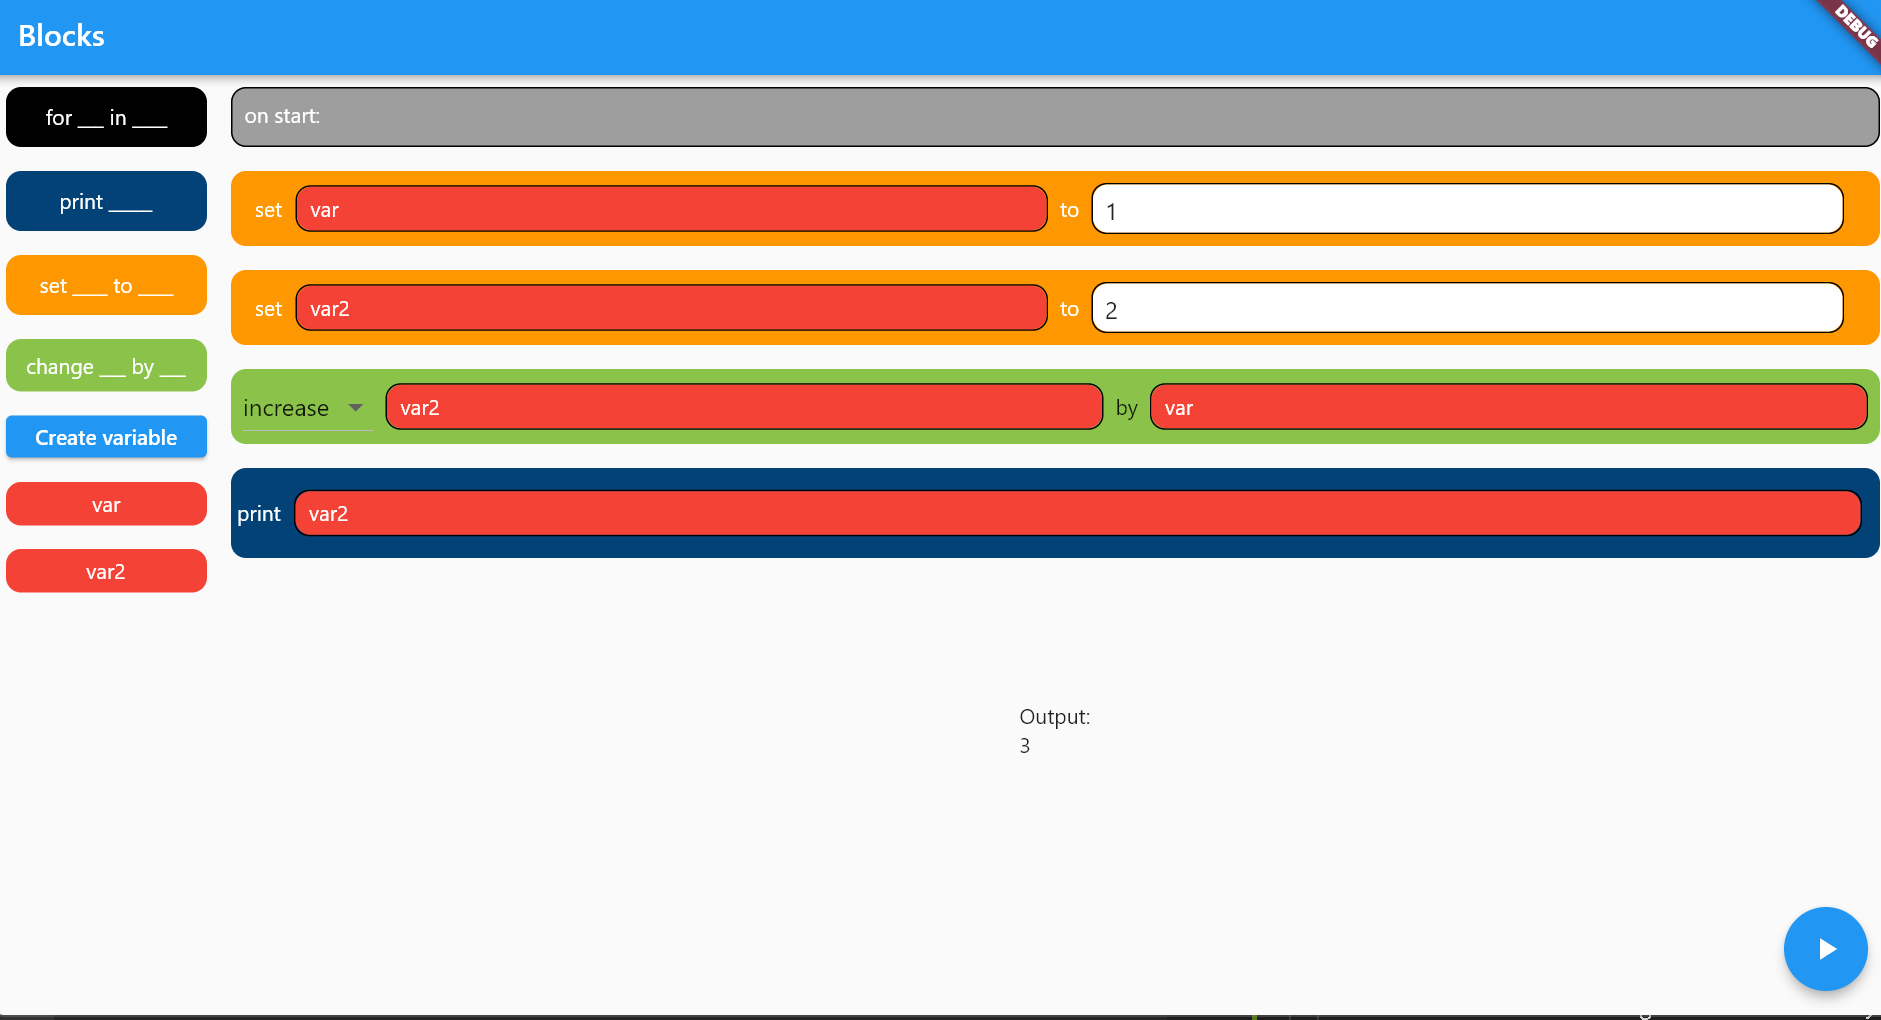
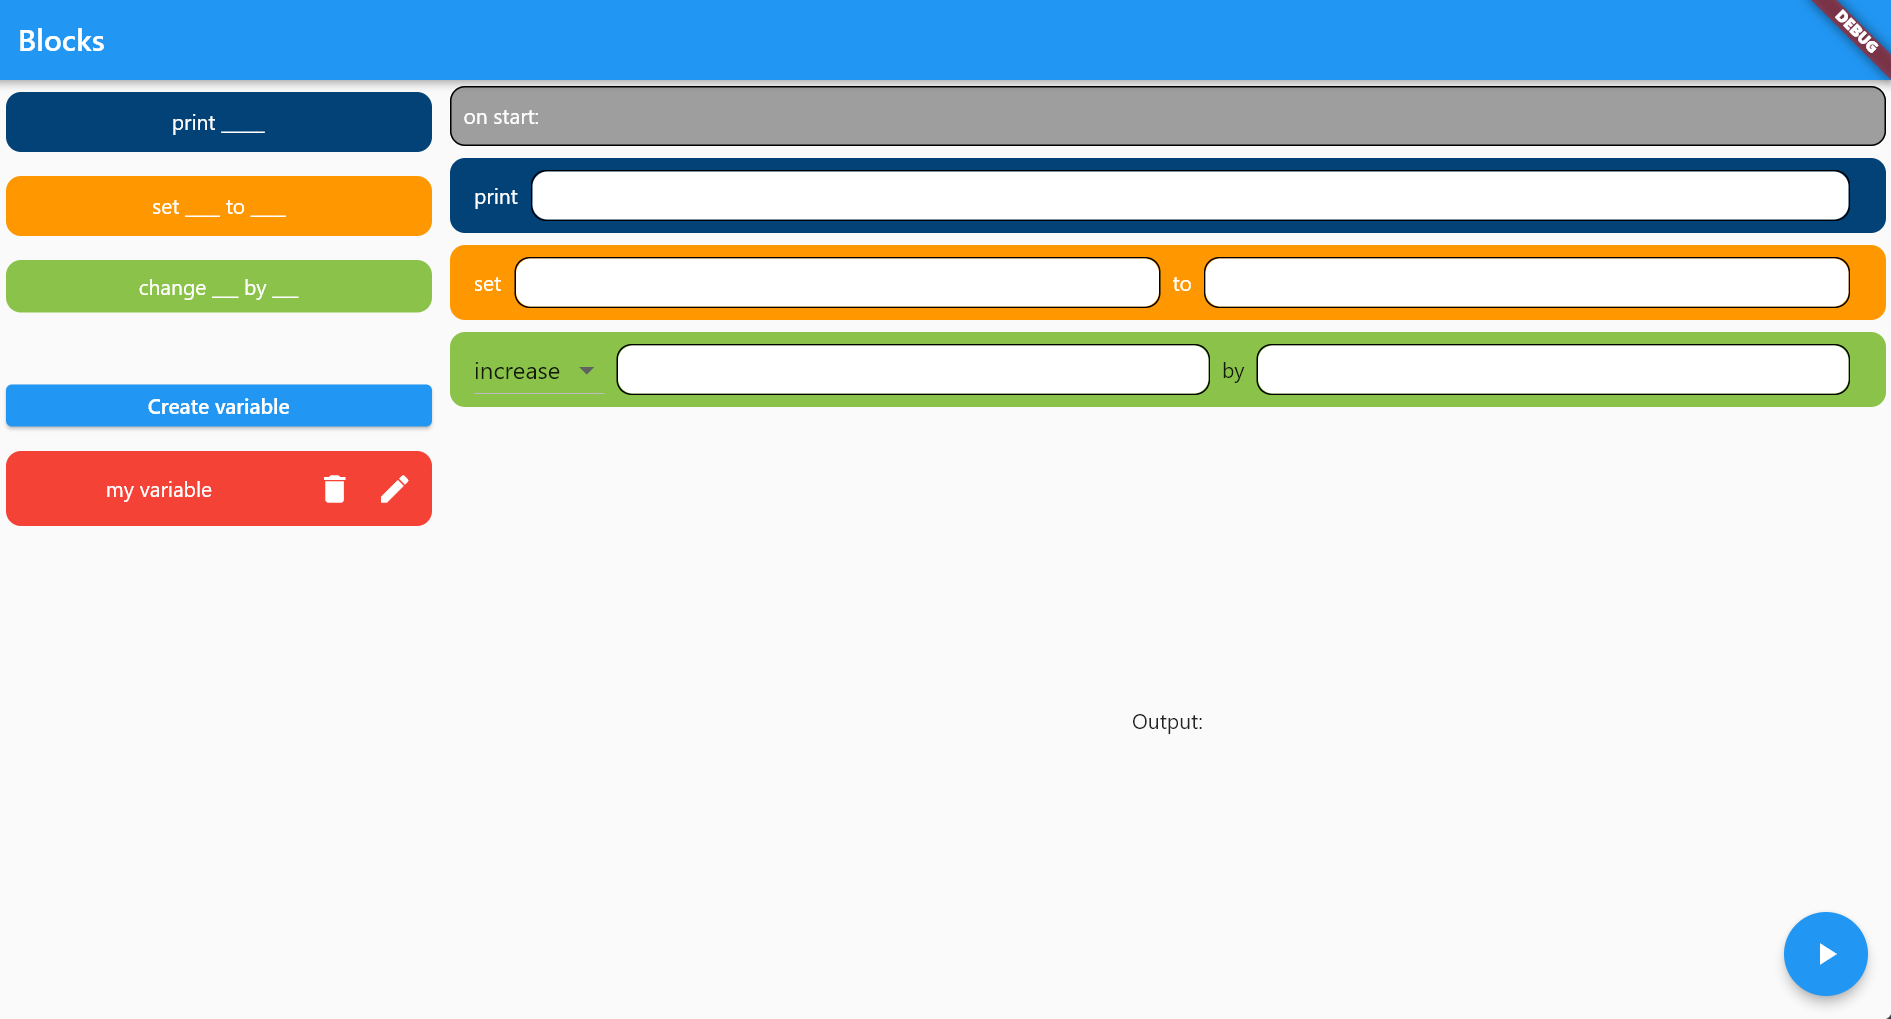
trash can

diff --git a/lib/main.dart b/lib/main.dart
@@ -129,22 +129,45 @@ class HomePageState extends State<HomePage> {
       body: Row(crossAxisAlignment: CrossAxisAlignment.start, children: [
         Container(
           width: 300,
-          child: ListView(controller: ScrollController(), children: [
-            PrintDrag(),
-            SetDrag(),
-            ChangeDrag(),
-            Container(
-                margin: EdgeInsets.all(8),
-                child: Container(
-                  margin: const EdgeInsets.only(top: 32),
-                  child: ElevatedButton(
-                      onPressed: () {
-                        _displayTextInputDialog(context, "Add variable");
-                      },
-                      child: const Text('Create variable')),
-                )),
-            ...vars.map((name) => VarDrag(name: name))
-          ]),
+          // height: MediaQuery.of(context).size.height,
+          child: Column(
+            children: [
+              Expanded(
+                child: ListView(
+                  controller: ScrollController(),
+                  children: [
+                    PrintDrag(),
+                    SetDrag(),
+                    ChangeDrag(),
+                    Container(
+                        margin: EdgeInsets.all(8),
+                        child: Container(
+                          margin: const EdgeInsets.only(top: 32),
+                          child: ElevatedButton(
+                              onPressed: () {
+                                _displayTextInputDialog(
+                                    context, "Add variable");
+                              },
+                              child: const Text('Create variable')),
+                        )),
+                    ...vars.map((name) => VarDrag(name: name)),
+                  ],
+                ),
+              ),
+              DragTarget<DragBlockWrapper>(
+                builder: ((context, candidateData, rejectedData) {
+                  return Icon(
+                    Icons.delete,
+                    color: candidateData.isNotEmpty ? Colors.red : Colors.black,
+                    size: 100,
+                  );
+                }),
+                onAccept: (statement) {
+                  // mainKey.currentState!.delete(statement.ind);
+                },
+              )
+            ],
+          ),
         ),
         Flexible(
             flex: 10,
@@ -159,6 +182,29 @@ class HomePageState extends State<HomePage> {
         },
         child: const Icon(Icons.play_arrow),
       ),
+      /* bottomNavigationBar: BottomAppBar(
+          color: Colors.transparent,
+          elevation: 0,
+          child: Row(
+            children: [
+              Container(
+                margin: EdgeInsets.only(left: 100),
+                child: DragTarget<DragBlockWrapper>(
+                  builder: ((context, candidateData, rejectedData) {
+                    return Icon(
+                      Icons.delete,
+                      color:
+                          candidateData.isNotEmpty ? Colors.red : Colors.black,
+                      size: 100,
+                    );
+                  }),
+                  onAccept: (statement) {
+                    // mainKey.currentState!.delete(statement.ind);
+                  },
+                ),
+              ),
+            ],
+          )), */
     );
   }
 }

diff --git a/lib/block_widgets/main_block.dart b/lib/block_widgets/main_block.dart
@@ -3,17 +3,17 @@ import 'package:flutter/material.dart';
 import 'package:blocks/utility.dart';
 import 'all.dart';
 
-class _DragBlockWrapper extends StatefulWidget {
+class DragBlockWrapper extends StatefulWidget {
   final Widget child;
   final int ind;
-  const _DragBlockWrapper({Key? key, required this.child, required this.ind})
+  const DragBlockWrapper({Key? key, required this.child, required this.ind})
       : super(key: key);
 
   @override
-  State<_DragBlockWrapper> createState() => __DragBlockWrapperState();
+  State<DragBlockWrapper> createState() => _DragBlockWrapperState();
 }
 
-class __DragBlockWrapperState extends State<_DragBlockWrapper> {
+class _DragBlockWrapperState extends State<DragBlockWrapper> {
   @override
   Widget build(BuildContext context) {
     return DragTarget(
@@ -22,11 +22,11 @@ class __DragBlockWrapperState extends State<_DragBlockWrapper> {
           children: [
             Container(
               width: double.infinity,
-              child: Draggable(
+              child: Draggable<DragBlockWrapper>(
                 child: widget.child,
                 feedback: widget.child,
                 childWhenDragging: Container(),
-                data: widget.child,
+                data: widget,
                 onDragCompleted: () {
                   setState(() {
                     mainKey.currentState!.delete(widget.ind);
@@ -90,7 +90,7 @@ class MainState extends State<Main> {
     print("build" + body.toString());
     var children = body.asMap().entries.map(
       (e) {
-        return _DragBlockWrapper(child: e.value, ind: e.key);
+        return DragBlockWrapper(child: e.value, ind: e.key);
       },
     );
     return ListView(controller: ScrollController(), children: [
@@ -101,12 +101,9 @@ class MainState extends State<Main> {
               Container(
                   width: double.infinity,
                   decoration: BoxDecoration(
-                      color: Colors.grey,
-                      borderRadius: const BorderRadius.all(Radius.circular(10)),
-                      border: Border.all(
-                          color: candidateData.isNotEmpty
-                              ? Colors.red
-                              : Colors.black)),
+                    color: Colors.grey,
+                    borderRadius: const BorderRadius.all(Radius.circular(10)),
+                  ),
                   height: 40,
                   margin: const EdgeInsets.all(4),
                   child: Container(
@@ -133,9 +130,9 @@ class MainState extends State<Main> {
             setState(() {
               add(buildFromType(statement), -1);
             });
-          } else if (statement is Widget) {
+          } else if (statement is DragBlockWrapper) {
             setState(() {
-              add(statement, -1);
+              add(statement.child, -1);
             });
           }
         },
